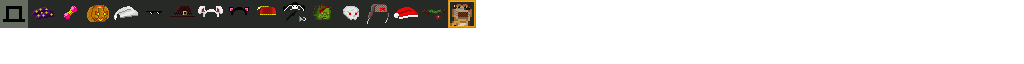
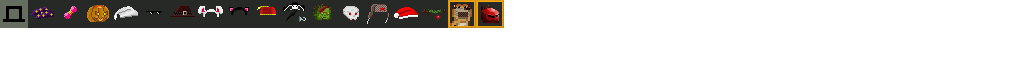
Chaos helmet Accessory, because why not?

Changed region(s): [[0.4375, 0.0, 0.5, 0.4375]]

diff --git a/PixelDungeon/src/main/java/com/nyrds/pixeldungeon/items/accessories/Accessory.java b/PixelDungeon/src/main/java/com/nyrds/pixeldungeon/items/accessories/Accessory.java
@@ -50,6 +50,7 @@ public class Accessory {
 		registerAccessory(SantaHat.class);
 		registerAccessory(Rudolph.class);
 		registerAccessory(GnollCostume.class);
+		registerAccessory(ChaosHelmet.class);
 	}
 
 	public static List<String> getAccessoriesList() {

diff --git a/PixelDungeon/src/main/java/com/nyrds/pixeldungeon/items/accessories/ChaosHelmet.java b/PixelDungeon/src/main/java/com/nyrds/pixeldungeon/items/accessories/ChaosHelmet.java
@@ -1,0 +1,13 @@
+package com.nyrds.pixeldungeon.items.accessories;
+
+/**
+ * Created by DeadDie on 26.05.2016
+ */
+public class ChaosHelmet extends Accessory{
+
+    {
+        coverHair = true;
+        image = 17;
+    }
+
+}
